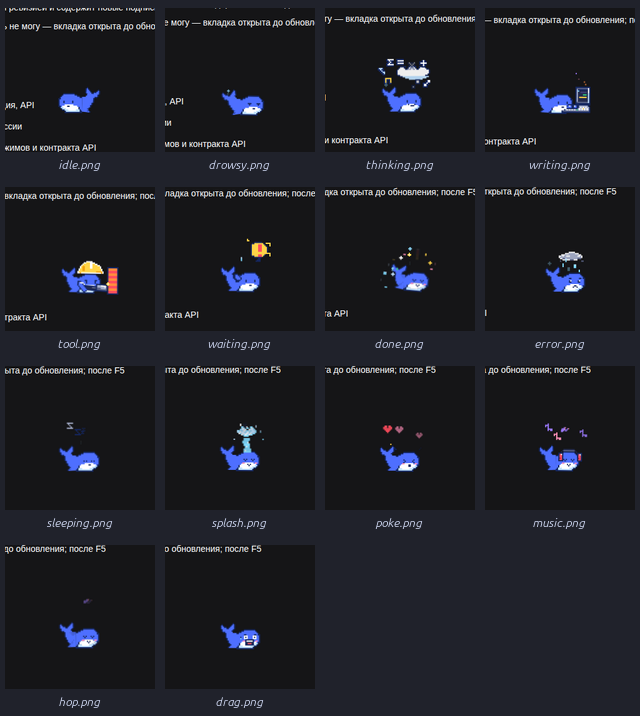
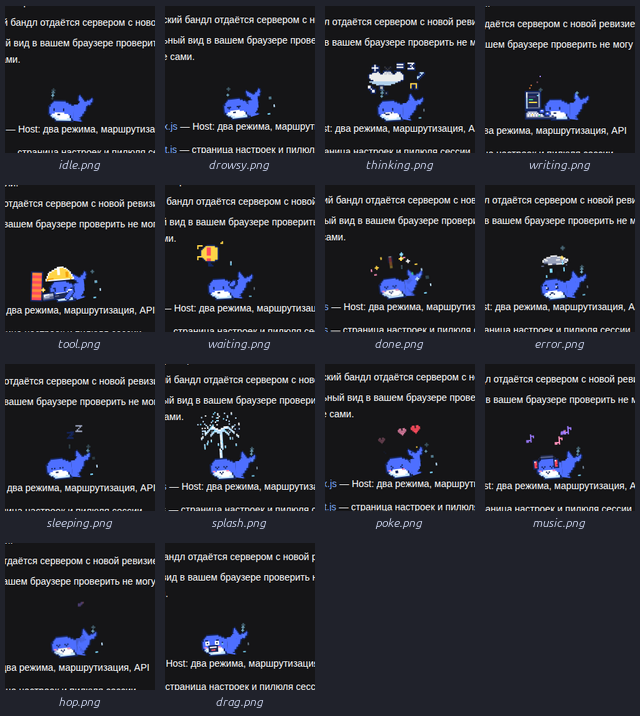
fountain: willow-style whale spout with short puff then tall burst

diff --git a/client.js b/client.js
@@ -309,21 +309,31 @@ const ART = {
 
 /* --- 12. splash (ref: idle-spout): two diverging water jets + crown ----- */
 .dsh-whale.is-splash #dw-bob { animation: dw-splash-tilt 2.6s ease-in-out infinite; }
-.dsh-whale.is-splash #dw-spout { animation: dw-spout-puff 1.2s ease-in-out infinite; }
-.dsh-whale.is-splash #dw-sdrop1 { animation: dw-sdrop 1.2s ease-out infinite; }
-.dsh-whale.is-splash #dw-sdrop2 { animation: dw-sdrop 1.2s ease-out 0.2s infinite; }
-.dsh-whale.is-splash #dw-sdrop3 { animation: dw-sdrop 1.2s ease-out 0.4s infinite; }
-.dsh-whale.is-splash #dw-sdrop4 { animation: dw-sdrop 1.2s ease-out 0.6s infinite; }
-.dsh-whale.is-splash #dw-sdrop5 { animation: dw-sdrop 1.2s ease-out 0.8s infinite; }
-.dsh-whale.is-splash #dw-sdrop6 { animation: dw-sdrop 1.2s ease-out 1s infinite; }
+/* fountain: a short puff, then a tall willow-like spout that bursts up */
+.dsh-whale.is-splash #dw-spout { animation: none; }
+.dsh-whale.is-splash #dw-spout-small { animation: dw-spout-small 3.2s steps(1, end) both; }
+.dsh-whale.is-splash #dw-spout-big { animation: dw-spout-big 3.2s ease-out both; transform-box: fill-box; transform-origin: 34px 56px; }
+.dsh-whale.is-splash #dw-sdrop1 { animation: dw-sdrop 3.2s ease-out both; }
+.dsh-whale.is-splash #dw-sdrop2 { animation: dw-sdrop 3.2s ease-out 0.15s both; }
+.dsh-whale.is-splash #dw-sdrop3 { animation: dw-sdrop 3.2s ease-out 0.3s both; }
+.dsh-whale.is-splash #dw-sdrop4 { animation: dw-sdrop 3.2s ease-out 0.45s both; }
+.dsh-whale.is-splash #dw-sdrop5 { animation: dw-sdrop 3.2s ease-out 0.6s both; }
+.dsh-whale.is-splash #dw-sdrop6 { animation: dw-sdrop 3.2s ease-out 0.75s both; }
+@keyframes dw-spout-small {
+  0%, 14% { opacity: 1; }
+  18%, 100% { opacity: 0; }
+}
+@keyframes dw-spout-big {
+  0%, 14% { opacity: 0; transform: scale(0.15, 0.12); }
+  24% { opacity: 1; transform: scale(0.72, 0.55); }
+  38%, 80% { opacity: 1; transform: scale(1, 1); }
+  92%, 100% { opacity: 0; transform: scale(1.06, 1.02); }
+}
 @keyframes dw-splash-tilt {
   0%, 100% { transform: translate(48px, 80px) rotate(-1.5deg) translate(-48px, -80px); }
   50% { transform: translate(48px, 80px) rotate(1.5deg) translate(-48px, -80px); }
 }
-@keyframes dw-spout-puff {
-  0%, 100% { transform: translate(36px, 56px) scaleY(0.86) scaleX(0.97) translate(-36px, -56px); opacity: 0.92; }
-  50% { transform: translate(36px, 56px) scaleY(1.05) scaleX(1.02) translate(-36px, -56px); opacity: 1; }
-}
+
 @keyframes dw-sdrop {
   0% { transform: translate(0, 4px); opacity: 0; }
   25% { opacity: 1; }
@@ -532,6 +542,7 @@ const ART = {
   .dsh-whale .dsh-whale-fx > span { opacity: 0 !important; }
   .dsh-whale .dsh-whale-art #dw-face-blink { opacity: 0 !important; }
   .dsh-whale .dsh-whale-art #dw-firework { opacity: 0 !important; }
+  .dsh-whale .dsh-whale-art #dw-spout-big { opacity: 0 !important; }
   .dsh-whale .dsh-whale-art #dw-face-up-blink, .dsh-whale .dsh-whale-art #dw-mouth-think-open { opacity: 0 !important; }
 }`,
   svg: ` <svg class="dsh-whale-svg" xmlns="http://www.w3.org/2000/svg" viewBox="0 0 96 96" width="96" height="96" shape-rendering="auto" aria-hidden="true" focusable="false">
@@ -559,7 +570,7 @@ const ART = {
     <g id="dw-wake" class="dw-only dw-on-fast"><g id="dw-wake1"><rect x="86" y="60" width="4" height="4" fill="#7FDBFF"/><rect x="86" y="60" width="2" height="2" fill="#BEE1FF"/></g><g id="dw-wake2"><rect x="90" y="72" width="2" height="4" fill="#BEE1FF"/></g><g id="dw-wake3"><rect x="80" y="84" width="4" height="2" fill="#7FDBFF"/></g></g>
     <g id="dw-hat" class="dw-only dw-on-tool"><path d="M30 36h10v20h-10zM26 38h4v18h-4zM40 38h4v18h-4zM22 40h4v16h-4zM44 40h2v16h-2zM18 42h4v14h-4zM46 42h2v14h-2zM16 44h2v12h-2zM48 44h2v12h-2zM14 48h2v8h-2zM50 48h2v8h-2zM12 52h2v4h-2zM52 52h2v4h-2z" fill="#FFFFFF"/><path d="M30 38h10v16h-10zM26 40h4v14h-4zM40 40h4v14h-4zM22 42h4v12h-4zM44 42h2v12h-2zM18 44h4v10h-4zM46 44h2v10h-2zM16 48h2v6h-2zM48 48h2v6h-2zM14 52h2v2h-2zM50 52h2v2h-2z" fill="#FFD447"/><rect x="30" y="38" width="4" height="10" fill="#FFFFFF"/><rect x="42" y="44" width="4" height="8" fill="#F2A20C"/><rect x="14" y="52" width="10" height="2" fill="#F2A20C"/><rect x="14" y="54" width="2" height="2" fill="#F2A20C"/><rect x="48" y="54" width="2" height="2" fill="#F2A20C"/></g>
     <g id="dw-phones" class="dw-only dw-on-music"><path d="M24 52h2v2h-2zM22 54h2v2h-2zM20 56h2v2h-2zM18 58h2v2h-2zM26 52h2v2h-2zM28 52h2v2h-2zM30 52h2v2h-2zM32 52h2v2h-2zM34 52h2v2h-2zM36 52h2v2h-2zM38 52h2v2h-2zM40 52h2v2h-2zM42 54h2v2h-2zM44 56h2v2h-2zM46 58h2v2h-2z" fill="#222A4E"/><path d="M26 54h2v2h-2zM24 54h2v2h-2zM28 54h2v2h-2zM30 54h2v2h-2zM32 54h2v2h-2zM34 54h2v2h-2zM36 54h2v2h-2zM38 54h2v2h-2zM40 54h2v2h-2z" fill="#5B6488"/><rect x="12" y="58" width="8" height="14" fill="#142660"/><rect x="14" y="60" width="4" height="10" fill="#FF4D5E"/><rect x="14" y="60" width="2" height="2" fill="#FFFFFF"/><rect x="16" y="66" width="2" height="2" fill="#B81E36"/><rect x="42" y="58" width="8" height="14" fill="#142660"/><rect x="44" y="60" width="4" height="10" fill="#FF4D5E"/><rect x="44" y="60" width="2" height="2" fill="#FFFFFF"/><rect x="46" y="66" width="2" height="2" fill="#B81E36"/></g>
-    <g id="dw-spout" class="dw-only dw-on-splash"><rect x="28" y="18" width="4" height="2" fill="#7FDBFF"/><rect x="42" y="18" width="4" height="2" fill="#7FDBFF"/><rect x="26" y="20" width="2" height="2" fill="#7FDBFF"/><rect x="30" y="20" width="2" height="2" fill="#7FDBFF"/><rect x="34" y="20" width="4" height="2" fill="#7FDBFF"/><rect x="40" y="20" width="2" height="2" fill="#7FDBFF"/><rect x="44" y="20" width="2" height="2" fill="#7FDBFF"/><rect x="24" y="22" width="2" height="2" fill="#7FDBFF"/><rect x="46" y="22" width="2" height="2" fill="#7FDBFF"/><rect x="22" y="24" width="2" height="2" fill="#7FDBFF"/><rect x="30" y="24" width="2" height="2" fill="#7FDBFF"/><rect x="34" y="24" width="4" height="2" fill="#7FDBFF"/><rect x="44" y="24" width="2" height="2" fill="#7FDBFF"/><rect x="48" y="24" width="4" height="2" fill="#7FDBFF"/><rect x="22" y="26" width="2" height="2" fill="#7FDBFF"/><rect x="32" y="26" width="2" height="2" fill="#7FDBFF"/><rect x="38" y="26" width="2" height="2" fill="#7FDBFF"/><rect x="50" y="26" width="2" height="2" fill="#7FDBFF"/><rect x="24" y="28" width="4" height="2" fill="#7FDBFF"/><rect x="46" y="28" width="2" height="2" fill="#7FDBFF"/><rect x="28" y="30" width="4" height="2" fill="#7FDBFF"/><rect x="34" y="30" width="2" height="2" fill="#7FDBFF"/><rect x="38" y="30" width="2" height="2" fill="#7FDBFF"/><rect x="42" y="30" width="2" height="2" fill="#7FDBFF"/><rect x="34" y="32" width="8" height="2" fill="#7FDBFF"/><rect x="32" y="36" width="10" height="2" fill="#7FDBFF"/><rect x="32" y="38" width="10" height="2" fill="#7FDBFF"/><rect x="34" y="40" width="10" height="2" fill="#7FDBFF"/><rect x="36" y="42" width="8" height="2" fill="#7FDBFF"/><rect x="32" y="44" width="10" height="2" fill="#7FDBFF"/><rect x="32" y="46" width="10" height="2" fill="#7FDBFF"/><rect x="32" y="48" width="4" height="2" fill="#7FDBFF"/><rect x="38" y="48" width="2" height="2" fill="#7FDBFF"/><rect x="32" y="50" width="8" height="2" fill="#7FDBFF"/><rect x="30" y="52" width="12" height="2" fill="#7FDBFF"/><rect x="30" y="54" width="8" height="2" fill="#7FDBFF"/><rect x="40" y="54" width="2" height="2" fill="#7FDBFF"/><rect x="30" y="56" width="12" height="2" fill="#7FDBFF"/><rect x="26" y="22" width="6" height="2" fill="#BEE1FF"/><rect x="40" y="22" width="6" height="2" fill="#BEE1FF"/><rect x="24" y="24" width="6" height="2" fill="#BEE1FF"/><rect x="32" y="24" width="2" height="2" fill="#BEE1FF"/><rect x="38" y="24" width="2" height="2" fill="#BEE1FF"/><rect x="42" y="24" width="2" height="2" fill="#BEE1FF"/><rect x="46" y="24" width="2" height="2" fill="#BEE1FF"/><rect x="24" y="26" width="8" height="2" fill="#BEE1FF"/><rect x="36" y="26" width="2" height="2" fill="#BEE1FF"/><rect x="40" y="26" width="6" height="2" fill="#BEE1FF"/><rect x="48" y="26" width="2" height="2" fill="#BEE1FF"/><rect x="28" y="28" width="2" height="2" fill="#BEE1FF"/><rect x="32" y="28" width="4" height="2" fill="#BEE1FF"/><rect x="38" y="28" width="4" height="2" fill="#BEE1FF"/><rect x="44" y="28" width="2" height="2" fill="#BEE1FF"/><rect x="36" y="30" width="2" height="2" fill="#BEE1FF"/><rect x="40" y="30" width="2" height="2" fill="#BEE1FF"/><rect x="36" y="18" width="2" height="2" fill="#FFFFFF"/><rect x="28" y="20" width="2" height="2" fill="#FFFFFF"/><rect x="42" y="20" width="2" height="2" fill="#FFFFFF"/><rect x="32" y="22" width="2" height="2" fill="#FFFFFF"/><rect x="38" y="22" width="2" height="2" fill="#FFFFFF"/><rect x="40" y="24" width="2" height="2" fill="#FFFFFF"/><rect x="34" y="26" width="2" height="2" fill="#FFFFFF"/><rect x="46" y="26" width="2" height="2" fill="#FFFFFF"/><rect x="30" y="28" width="2" height="2" fill="#FFFFFF"/><rect x="36" y="28" width="2" height="2" fill="#FFFFFF"/><rect x="42" y="28" width="2" height="2" fill="#FFFFFF"/><rect x="48" y="28" width="2" height="2" fill="#FFFFFF"/><rect x="32" y="30" width="2" height="2" fill="#FFFFFF"/><rect x="38" y="30" width="2" height="2" fill="#FFFFFF"/><rect x="44" y="30" width="2" height="2" fill="#FFFFFF"/><rect x="34" y="42" width="2" height="2" fill="#FFFFFF"/><rect x="36" y="48" width="2" height="2" fill="#FFFFFF"/><rect x="38" y="54" width="2" height="2" fill="#FFFFFF"/></g>
+    <g id="dw-spout" class="dw-only dw-on-splash"><g id="dw-spout-small"><rect x="30" y="46" width="2" height="10" fill="#FFFFFF"/><rect x="34" y="48" width="2" height="8" fill="#BEE1FF"/><rect x="32" y="44" width="2" height="6" fill="#FFFFFF"/><rect x="28" y="42" width="2" height="2" fill="#7FDBFF"/><rect x="38" y="42" width="2" height="2" fill="#7FDBFF"/><rect x="32" y="40" width="2" height="2" fill="#BEE1FF"/></g><g id="dw-spout-big"><rect x="28" y="-12" width="2" height="2" fill="#7FDBFF"/><rect x="26" y="-10" width="2" height="2" fill="#7FDBFF"/><rect x="32" y="-10" width="2" height="2" fill="#FFFFFF"/><rect x="42" y="-10" width="2" height="2" fill="#BEE1FF"/><rect x="52" y="-10" width="2" height="2" fill="#FFFFFF"/><rect x="14" y="-8" width="2" height="2" fill="#FFFFFF"/><rect x="32" y="-8" width="2" height="2" fill="#BEE1FF"/><rect x="52" y="-8" width="2" height="2" fill="#BEE1FF"/><rect x="8" y="-6" width="2" height="2" fill="#BEE1FF"/><rect x="24" y="-6" width="2" height="2" fill="#BEE1FF"/><rect x="34" y="-6" width="2" height="2" fill="#FFFFFF"/><rect x="46" y="-6" width="2" height="2" fill="#BEE1FF"/><rect x="30" y="-4" width="2" height="2" fill="#7FDBFF"/><rect x="32" y="-4" width="2" height="2" fill="#FFFFFF"/><rect x="46" y="-4" width="2" height="2" fill="#BEE1FF"/><rect x="40" y="-2" width="2" height="2" fill="#7FDBFF"/><rect x="58" y="-2" width="2" height="2" fill="#BEE1FF"/><rect x="10" y="0" width="2" height="2" fill="#BEE1FF"/><rect x="24" y="0" width="2" height="2" fill="#7FDBFF"/><rect x="30" y="0" width="2" height="2" fill="#7FDBFF"/><rect x="32" y="0" width="2" height="2" fill="#BEE1FF"/><rect x="44" y="0" width="2" height="2" fill="#BEE1FF"/><rect x="22" y="2" width="2" height="2" fill="#BEE1FF"/><rect x="28" y="2" width="2" height="2" fill="#FFFFFF"/><rect x="48" y="2" width="2" height="2" fill="#BEE1FF"/><rect x="2" y="4" width="2" height="2" fill="#BEE1FF"/><rect x="6" y="4" width="2" height="2" fill="#7FDBFF"/><rect x="12" y="4" width="2" height="2" fill="#BEE1FF"/><rect x="14" y="6" width="2" height="2" fill="#BEE1FF"/><rect x="20" y="6" width="2" height="2" fill="#FFFFFF"/><rect x="24" y="6" width="2" height="2" fill="#7FDBFF"/><rect x="30" y="6" width="2" height="2" fill="#FFFFFF"/><rect x="48" y="6" width="2" height="2" fill="#BEE1FF"/><rect x="62" y="6" width="2" height="2" fill="#FFFFFF"/><rect x="16" y="8" width="2" height="2" fill="#BEE1FF"/><rect x="22" y="8" width="2" height="2" fill="#7FDBFF"/><rect x="24" y="8" width="2" height="2" fill="#FFFFFF"/><rect x="56" y="8" width="2" height="2" fill="#BEE1FF"/><rect x="62" y="8" width="2" height="2" fill="#FFFFFF"/><rect x="8" y="10" width="2" height="2" fill="#FFFFFF"/><rect x="12" y="10" width="2" height="2" fill="#FFFFFF"/><rect x="16" y="10" width="2" height="2" fill="#FFFFFF"/><rect x="20" y="10" width="2" height="2" fill="#7FDBFF"/><rect x="22" y="10" width="2" height="2" fill="#FFFFFF"/><rect x="24" y="10" width="2" height="2" fill="#FFFFFF"/><rect x="26" y="10" width="2" height="2" fill="#FFFFFF"/><rect x="40" y="10" width="2" height="2" fill="#FFFFFF"/><rect x="42" y="10" width="2" height="2" fill="#FFFFFF"/><rect x="44" y="10" width="2" height="2" fill="#FFFFFF"/><rect x="46" y="10" width="2" height="2" fill="#BEE1FF"/><rect x="52" y="10" width="2" height="2" fill="#BEE1FF"/><rect x="54" y="10" width="2" height="2" fill="#BEE1FF"/><rect x="18" y="12" width="2" height="2" fill="#BEE1FF"/><rect x="20" y="12" width="2" height="2" fill="#BEE1FF"/><rect x="22" y="12" width="2" height="2" fill="#BEE1FF"/><rect x="24" y="12" width="2" height="2" fill="#BEE1FF"/><rect x="26" y="12" width="2" height="2" fill="#BEE1FF"/><rect x="28" y="12" width="2" height="2" fill="#FFFFFF"/><rect x="30" y="12" width="2" height="2" fill="#FFFFFF"/><rect x="36" y="12" width="2" height="2" fill="#FFFFFF"/><rect x="38" y="12" width="2" height="2" fill="#FFFFFF"/><rect x="40" y="12" width="2" height="2" fill="#BEE1FF"/><rect x="42" y="12" width="2" height="2" fill="#BEE1FF"/><rect x="44" y="12" width="2" height="2" fill="#BEE1FF"/><rect x="46" y="12" width="2" height="2" fill="#BEE1FF"/><rect x="48" y="12" width="2" height="2" fill="#BEE1FF"/><rect x="52" y="12" width="2" height="2" fill="#FFFFFF"/><rect x="8" y="14" width="2" height="2" fill="#BEE1FF"/><rect x="10" y="14" width="2" height="2" fill="#BEE1FF"/><rect x="12" y="14" width="2" height="2" fill="#BEE1FF"/><rect x="16" y="14" width="2" height="2" fill="#BEE1FF"/><rect x="18" y="14" width="2" height="2" fill="#BEE1FF"/><rect x="26" y="14" width="2" height="2" fill="#7FDBFF"/><rect x="28" y="14" width="2" height="2" fill="#BEE1FF"/><rect x="30" y="14" width="2" height="2" fill="#BEE1FF"/><rect x="32" y="14" width="2" height="2" fill="#FFFFFF"/><rect x="34" y="14" width="2" height="2" fill="#FFFFFF"/><rect x="36" y="14" width="2" height="2" fill="#BEE1FF"/><rect x="38" y="14" width="2" height="2" fill="#BEE1FF"/><rect x="40" y="14" width="2" height="2" fill="#7FDBFF"/><rect x="48" y="14" width="2" height="2" fill="#BEE1FF"/><rect x="50" y="14" width="2" height="2" fill="#BEE1FF"/><rect x="56" y="14" width="2" height="2" fill="#BEE1FF"/><rect x="62" y="14" width="2" height="2" fill="#BEE1FF"/><rect x="12" y="16" width="2" height="2" fill="#BEE1FF"/><rect x="14" y="16" width="2" height="2" fill="#BEE1FF"/><rect x="16" y="16" width="2" height="2" fill="#BEE1FF"/><rect x="24" y="16" width="2" height="2" fill="#7FDBFF"/><rect x="26" y="16" width="2" height="2" fill="#BEE1FF"/><rect x="28" y="16" width="2" height="2" fill="#BEE1FF"/><rect x="30" y="16" width="2" height="2" fill="#BEE1FF"/><rect x="32" y="16" width="2" height="2" fill="#BEE1FF"/><rect x="34" y="16" width="2" height="2" fill="#BEE1FF"/><rect x="36" y="16" width="2" height="2" fill="#BEE1FF"/><rect x="38" y="16" width="2" height="2" fill="#BEE1FF"/><rect x="40" y="16" width="2" height="2" fill="#BEE1FF"/><rect x="42" y="16" width="2" height="2" fill="#7FDBFF"/><rect x="50" y="16" width="2" height="2" fill="#BEE1FF"/><rect x="52" y="16" width="2" height="2" fill="#BEE1FF"/><rect x="8" y="18" width="2" height="2" fill="#BEE1FF"/><rect x="12" y="18" width="2" height="2" fill="#FFFFFF"/><rect x="14" y="18" width="2" height="2" fill="#BEE1FF"/><rect x="22" y="18" width="2" height="2" fill="#BEE1FF"/><rect x="24" y="18" width="2" height="2" fill="#BEE1FF"/><rect x="30" y="18" width="2" height="2" fill="#BEE1FF"/><rect x="32" y="18" width="2" height="2" fill="#BEE1FF"/><rect x="34" y="18" width="2" height="2" fill="#BEE1FF"/><rect x="36" y="18" width="2" height="2" fill="#BEE1FF"/><rect x="42" y="18" width="2" height="2" fill="#BEE1FF"/><rect x="44" y="18" width="2" height="2" fill="#BEE1FF"/><rect x="48" y="18" width="2" height="2" fill="#BEE1FF"/><rect x="52" y="18" width="2" height="2" fill="#BEE1FF"/><rect x="54" y="18" width="2" height="2" fill="#FFFFFF"/><rect x="12" y="20" width="2" height="2" fill="#BEE1FF"/><rect x="20" y="20" width="2" height="2" fill="#BEE1FF"/><rect x="22" y="20" width="2" height="2" fill="#BEE1FF"/><rect x="34" y="20" width="2" height="2" fill="#BEE1FF"/><rect x="36" y="20" width="2" height="2" fill="#BEE1FF"/><rect x="44" y="20" width="2" height="2" fill="#BEE1FF"/><rect x="46" y="20" width="2" height="2" fill="#BEE1FF"/><rect x="54" y="20" width="2" height="2" fill="#BEE1FF"/><rect x="8" y="22" width="2" height="2" fill="#FFFFFF"/><rect x="20" y="22" width="2" height="2" fill="#BEE1FF"/><rect x="34" y="22" width="2" height="2" fill="#FFFFFF"/><rect x="36" y="22" width="2" height="2" fill="#BEE1FF"/><rect x="46" y="22" width="2" height="2" fill="#BEE1FF"/><rect x="58" y="22" width="2" height="2" fill="#FFFFFF"/><rect x="6" y="24" width="2" height="2" fill="#FFFFFF"/><rect x="8" y="24" width="2" height="2" fill="#BEE1FF"/><rect x="34" y="24" width="2" height="2" fill="#FFFFFF"/><rect x="36" y="24" width="2" height="2" fill="#BEE1FF"/><rect x="58" y="24" width="2" height="2" fill="#BEE1FF"/><rect x="60" y="24" width="2" height="2" fill="#FFFFFF"/><rect x="6" y="26" width="2" height="2" fill="#BEE1FF"/><rect x="34" y="26" width="2" height="2" fill="#FFFFFF"/><rect x="36" y="26" width="2" height="2" fill="#BEE1FF"/><rect x="48" y="26" width="2" height="2" fill="#BEE1FF"/><rect x="60" y="26" width="2" height="2" fill="#BEE1FF"/><rect x="20" y="28" width="2" height="2" fill="#BEE1FF"/><rect x="34" y="28" width="2" height="2" fill="#FFFFFF"/><rect x="36" y="28" width="2" height="2" fill="#BEE1FF"/><rect x="48" y="28" width="2" height="2" fill="#7FDBFF"/><rect x="20" y="30" width="2" height="2" fill="#7FDBFF"/><rect x="34" y="30" width="2" height="2" fill="#BEE1FF"/><rect x="36" y="30" width="2" height="2" fill="#BEE1FF"/><rect x="14" y="32" width="2" height="2" fill="#BEE1FF"/><rect x="34" y="32" width="2" height="2" fill="#FFFFFF"/><rect x="36" y="32" width="2" height="2" fill="#7FDBFF"/><rect x="10" y="34" width="2" height="2" fill="#BEE1FF"/><rect x="14" y="34" width="2" height="2" fill="#7FDBFF"/><rect x="30" y="34" width="2" height="2" fill="#BEE1FF"/><rect x="34" y="34" width="2" height="2" fill="#FFFFFF"/><rect x="36" y="34" width="2" height="2" fill="#BEE1FF"/><rect x="10" y="36" width="2" height="2" fill="#7FDBFF"/><rect x="30" y="36" width="2" height="2" fill="#7FDBFF"/><rect x="34" y="36" width="2" height="2" fill="#BEE1FF"/><rect x="36" y="36" width="2" height="2" fill="#BEE1FF"/><rect x="56" y="36" width="2" height="2" fill="#BEE1FF"/><rect x="10" y="38" width="2" height="2" fill="#BEE1FF"/><rect x="34" y="38" width="2" height="2" fill="#FFFFFF"/><rect x="36" y="38" width="2" height="2" fill="#BEE1FF"/><rect x="40" y="38" width="2" height="2" fill="#BEE1FF"/><rect x="56" y="38" width="2" height="2" fill="#7FDBFF"/><rect x="10" y="40" width="2" height="2" fill="#7FDBFF"/><rect x="34" y="40" width="2" height="2" fill="#BEE1FF"/><rect x="36" y="40" width="2" height="2" fill="#BEE1FF"/><rect x="40" y="40" width="2" height="2" fill="#7FDBFF"/><rect x="32" y="42" width="2" height="2" fill="#FFFFFF"/><rect x="36" y="42" width="2" height="2" fill="#BEE1FF"/><rect x="32" y="44" width="2" height="2" fill="#FFFFFF"/><rect x="34" y="44" width="2" height="2" fill="#BEE1FF"/><rect x="32" y="46" width="2" height="2" fill="#BEE1FF"/><rect x="34" y="46" width="2" height="2" fill="#BEE1FF"/><rect x="32" y="48" width="2" height="2" fill="#FFFFFF"/><rect x="34" y="48" width="2" height="2" fill="#BEE1FF"/><rect x="32" y="50" width="2" height="2" fill="#FFFFFF"/><rect x="34" y="50" width="2" height="2" fill="#BEE1FF"/><rect x="32" y="52" width="2" height="2" fill="#FFFFFF"/><rect x="34" y="52" width="2" height="2" fill="#BEE1FF"/><rect x="32" y="54" width="2" height="2" fill="#FFFFFF"/><rect x="34" y="54" width="2" height="2" fill="#BEE1FF"/></g></g>
     <g id="dw-sdrop1" class="dw-only dw-on-splash"><rect x="16" y="30" width="2" height="4" fill="#7FDBFF"/><rect x="16" y="30" width="2" height="2" fill="#BEE1FF"/></g><g id="dw-sdrop2" class="dw-only dw-on-splash"><rect x="52" y="26" width="2" height="4" fill="#BEE1FF"/></g><g id="dw-sdrop3" class="dw-only dw-on-splash"><rect x="22" y="14" width="2" height="4" fill="#BEE1FF"/></g><g id="dw-sdrop4" class="dw-only dw-on-splash"><rect x="46" y="12" width="2" height="4" fill="#FFFFFF"/></g><g id="dw-sdrop5" class="dw-only dw-on-splash"><rect x="10" y="36" width="2" height="2" fill="#7FDBFF"/></g><g id="dw-sdrop6" class="dw-only dw-on-splash"><rect x="56" y="36" width="2" height="2" fill="#BEE1FF"/></g>
     <g id="dw-note-a" class="dw-only dw-on-music"><g id="dw-note1"><rect x="10" y="22" width="2" height="12" fill="#9D7BFF"/><rect x="4" y="30" width="6" height="2" fill="#9D7BFF"/><rect x="4" y="32" width="4" height="2" fill="#9D7BFF"/><rect x="12" y="24" width="4" height="2" fill="#9D7BFF"/><rect x="14" y="26" width="2" height="2" fill="#9D7BFF"/></g><g id="dw-note2"><rect x="52" y="26" width="2" height="12" fill="#FF8FB8"/><rect x="46" y="34" width="6" height="2" fill="#FF8FB8"/><rect x="46" y="36" width="4" height="2" fill="#FF8FB8"/><rect x="54" y="28" width="4" height="2" fill="#FF8FB8"/><rect x="56" y="30" width="2" height="2" fill="#FF8FB8"/></g><g id="dw-note3"><rect x="66" y="12" width="2" height="12" fill="#9D7BFF"/><rect x="60" y="20" width="6" height="2" fill="#9D7BFF"/><rect x="60" y="22" width="4" height="2" fill="#9D7BFF"/><rect x="68" y="14" width="4" height="2" fill="#9D7BFF"/><rect x="70" y="16" width="2" height="2" fill="#9D7BFF"/></g></g>
     <g id="dw-heart1" class="dw-only dw-on-poke"><rect x="46" y="24" width="4" height="2" fill="#FF8FB8"/><rect x="52" y="24" width="4" height="2" fill="#FF8FB8"/><rect x="44" y="26" width="6" height="2" fill="#FF8FB8"/><rect x="52" y="26" width="6" height="2" fill="#FF8FB8"/><rect x="44" y="28" width="14" height="2" fill="#FF8FB8"/><rect x="46" y="30" width="10" height="2" fill="#FF8FB8"/><rect x="48" y="32" width="6" height="2" fill="#FF8FB8"/><rect x="50" y="34" width="2" height="2" fill="#FF8FB8"/></g><g id="dw-heart2" class="dw-only dw-on-poke"><rect x="16" y="34" width="4" height="2" fill="#FF8FB8"/><rect x="22" y="34" width="4" height="2" fill="#FF8FB8"/><rect x="14" y="36" width="6" height="2" fill="#FF8FB8"/><rect x="22" y="36" width="6" height="2" fill="#FF8FB8"/><rect x="14" y="38" width="14" height="2" fill="#FF8FB8"/><rect x="16" y="40" width="10" height="2" fill="#FF8FB8"/><rect x="18" y="42" width="6" height="2" fill="#FF8FB8"/><rect x="20" y="44" width="2" height="2" fill="#FF8FB8"/></g><g id="dw-heart3" class="dw-only dw-on-poke"><rect x="62" y="14" width="4" height="2" fill="#FF4D5E"/><rect x="68" y="14" width="4" height="2" fill="#FF4D5E"/><rect x="60" y="16" width="6" height="2" fill="#FF4D5E"/><rect x="68" y="16" width="6" height="2" fill="#FF4D5E"/><rect x="60" y="18" width="14" height="2" fill="#FF4D5E"/><rect x="62" y="20" width="10" height="2" fill="#FF4D5E"/><rect x="64" y="22" width="6" height="2" fill="#FF4D5E"/><rect x="66" y="24" width="2" height="2" fill="#FF4D5E"/></g>

diff --git a/src/art.js b/src/art.js
@@ -299,21 +299,31 @@ const ART = {
 
 /* --- 12. splash (ref: idle-spout): two diverging water jets + crown ----- */
 .dsh-whale.is-splash #dw-bob { animation: dw-splash-tilt 2.6s ease-in-out infinite; }
-.dsh-whale.is-splash #dw-spout { animation: dw-spout-puff 1.2s ease-in-out infinite; }
-.dsh-whale.is-splash #dw-sdrop1 { animation: dw-sdrop 1.2s ease-out infinite; }
-.dsh-whale.is-splash #dw-sdrop2 { animation: dw-sdrop 1.2s ease-out 0.2s infinite; }
-.dsh-whale.is-splash #dw-sdrop3 { animation: dw-sdrop 1.2s ease-out 0.4s infinite; }
-.dsh-whale.is-splash #dw-sdrop4 { animation: dw-sdrop 1.2s ease-out 0.6s infinite; }
-.dsh-whale.is-splash #dw-sdrop5 { animation: dw-sdrop 1.2s ease-out 0.8s infinite; }
-.dsh-whale.is-splash #dw-sdrop6 { animation: dw-sdrop 1.2s ease-out 1s infinite; }
+/* fountain: a short puff, then a tall willow-like spout that bursts up */
+.dsh-whale.is-splash #dw-spout { animation: none; }
+.dsh-whale.is-splash #dw-spout-small { animation: dw-spout-small 3.2s steps(1, end) both; }
+.dsh-whale.is-splash #dw-spout-big { animation: dw-spout-big 3.2s ease-out both; transform-box: fill-box; transform-origin: 34px 56px; }
+.dsh-whale.is-splash #dw-sdrop1 { animation: dw-sdrop 3.2s ease-out both; }
+.dsh-whale.is-splash #dw-sdrop2 { animation: dw-sdrop 3.2s ease-out 0.15s both; }
+.dsh-whale.is-splash #dw-sdrop3 { animation: dw-sdrop 3.2s ease-out 0.3s both; }
+.dsh-whale.is-splash #dw-sdrop4 { animation: dw-sdrop 3.2s ease-out 0.45s both; }
+.dsh-whale.is-splash #dw-sdrop5 { animation: dw-sdrop 3.2s ease-out 0.6s both; }
+.dsh-whale.is-splash #dw-sdrop6 { animation: dw-sdrop 3.2s ease-out 0.75s both; }
+@keyframes dw-spout-small {
+  0%, 14% { opacity: 1; }
+  18%, 100% { opacity: 0; }
+}
+@keyframes dw-spout-big {
+  0%, 14% { opacity: 0; transform: scale(0.15, 0.12); }
+  24% { opacity: 1; transform: scale(0.72, 0.55); }
+  38%, 80% { opacity: 1; transform: scale(1, 1); }
+  92%, 100% { opacity: 0; transform: scale(1.06, 1.02); }
+}
 @keyframes dw-splash-tilt {
   0%, 100% { transform: translate(48px, 80px) rotate(-1.5deg) translate(-48px, -80px); }
   50% { transform: translate(48px, 80px) rotate(1.5deg) translate(-48px, -80px); }
 }
-@keyframes dw-spout-puff {
-  0%, 100% { transform: translate(36px, 56px) scaleY(0.86) scaleX(0.97) translate(-36px, -56px); opacity: 0.92; }
-  50% { transform: translate(36px, 56px) scaleY(1.05) scaleX(1.02) translate(-36px, -56px); opacity: 1; }
-}
+
 @keyframes dw-sdrop {
   0% { transform: translate(0, 4px); opacity: 0; }
   25% { opacity: 1; }
@@ -522,6 +532,7 @@ const ART = {
   .dsh-whale .dsh-whale-fx > span { opacity: 0 !important; }
   .dsh-whale .dsh-whale-art #dw-face-blink { opacity: 0 !important; }
   .dsh-whale .dsh-whale-art #dw-firework { opacity: 0 !important; }
+  .dsh-whale .dsh-whale-art #dw-spout-big { opacity: 0 !important; }
   .dsh-whale .dsh-whale-art #dw-face-up-blink, .dsh-whale .dsh-whale-art #dw-mouth-think-open { opacity: 0 !important; }
 }`,
   svg: ` <svg class="dsh-whale-svg" xmlns="http://www.w3.org/2000/svg" viewBox="0 0 96 96" width="96" height="96" shape-rendering="auto" aria-hidden="true" focusable="false">
@@ -549,7 +560,7 @@ const ART = {
     <g id="dw-wake" class="dw-only dw-on-fast"><g id="dw-wake1"><rect x="86" y="60" width="4" height="4" fill="#7FDBFF"/><rect x="86" y="60" width="2" height="2" fill="#BEE1FF"/></g><g id="dw-wake2"><rect x="90" y="72" width="2" height="4" fill="#BEE1FF"/></g><g id="dw-wake3"><rect x="80" y="84" width="4" height="2" fill="#7FDBFF"/></g></g>
     <g id="dw-hat" class="dw-only dw-on-tool"><path d="M30 36h10v20h-10zM26 38h4v18h-4zM40 38h4v18h-4zM22 40h4v16h-4zM44 40h2v16h-2zM18 42h4v14h-4zM46 42h2v14h-2zM16 44h2v12h-2zM48 44h2v12h-2zM14 48h2v8h-2zM50 48h2v8h-2zM12 52h2v4h-2zM52 52h2v4h-2z" fill="#FFFFFF"/><path d="M30 38h10v16h-10zM26 40h4v14h-4zM40 40h4v14h-4zM22 42h4v12h-4zM44 42h2v12h-2zM18 44h4v10h-4zM46 44h2v10h-2zM16 48h2v6h-2zM48 48h2v6h-2zM14 52h2v2h-2zM50 52h2v2h-2z" fill="#FFD447"/><rect x="30" y="38" width="4" height="10" fill="#FFFFFF"/><rect x="42" y="44" width="4" height="8" fill="#F2A20C"/><rect x="14" y="52" width="10" height="2" fill="#F2A20C"/><rect x="14" y="54" width="2" height="2" fill="#F2A20C"/><rect x="48" y="54" width="2" height="2" fill="#F2A20C"/></g>
     <g id="dw-phones" class="dw-only dw-on-music"><path d="M24 52h2v2h-2zM22 54h2v2h-2zM20 56h2v2h-2zM18 58h2v2h-2zM26 52h2v2h-2zM28 52h2v2h-2zM30 52h2v2h-2zM32 52h2v2h-2zM34 52h2v2h-2zM36 52h2v2h-2zM38 52h2v2h-2zM40 52h2v2h-2zM42 54h2v2h-2zM44 56h2v2h-2zM46 58h2v2h-2z" fill="#222A4E"/><path d="M26 54h2v2h-2zM24 54h2v2h-2zM28 54h2v2h-2zM30 54h2v2h-2zM32 54h2v2h-2zM34 54h2v2h-2zM36 54h2v2h-2zM38 54h2v2h-2zM40 54h2v2h-2z" fill="#5B6488"/><rect x="12" y="58" width="8" height="14" fill="#142660"/><rect x="14" y="60" width="4" height="10" fill="#FF4D5E"/><rect x="14" y="60" width="2" height="2" fill="#FFFFFF"/><rect x="16" y="66" width="2" height="2" fill="#B81E36"/><rect x="42" y="58" width="8" height="14" fill="#142660"/><rect x="44" y="60" width="4" height="10" fill="#FF4D5E"/><rect x="44" y="60" width="2" height="2" fill="#FFFFFF"/><rect x="46" y="66" width="2" height="2" fill="#B81E36"/></g>
-    <g id="dw-spout" class="dw-only dw-on-splash"><rect x="28" y="18" width="4" height="2" fill="#7FDBFF"/><rect x="42" y="18" width="4" height="2" fill="#7FDBFF"/><rect x="26" y="20" width="2" height="2" fill="#7FDBFF"/><rect x="30" y="20" width="2" height="2" fill="#7FDBFF"/><rect x="34" y="20" width="4" height="2" fill="#7FDBFF"/><rect x="40" y="20" width="2" height="2" fill="#7FDBFF"/><rect x="44" y="20" width="2" height="2" fill="#7FDBFF"/><rect x="24" y="22" width="2" height="2" fill="#7FDBFF"/><rect x="46" y="22" width="2" height="2" fill="#7FDBFF"/><rect x="22" y="24" width="2" height="2" fill="#7FDBFF"/><rect x="30" y="24" width="2" height="2" fill="#7FDBFF"/><rect x="34" y="24" width="4" height="2" fill="#7FDBFF"/><rect x="44" y="24" width="2" height="2" fill="#7FDBFF"/><rect x="48" y="24" width="4" height="2" fill="#7FDBFF"/><rect x="22" y="26" width="2" height="2" fill="#7FDBFF"/><rect x="32" y="26" width="2" height="2" fill="#7FDBFF"/><rect x="38" y="26" width="2" height="2" fill="#7FDBFF"/><rect x="50" y="26" width="2" height="2" fill="#7FDBFF"/><rect x="24" y="28" width="4" height="2" fill="#7FDBFF"/><rect x="46" y="28" width="2" height="2" fill="#7FDBFF"/><rect x="28" y="30" width="4" height="2" fill="#7FDBFF"/><rect x="34" y="30" width="2" height="2" fill="#7FDBFF"/><rect x="38" y="30" width="2" height="2" fill="#7FDBFF"/><rect x="42" y="30" width="2" height="2" fill="#7FDBFF"/><rect x="34" y="32" width="8" height="2" fill="#7FDBFF"/><rect x="32" y="36" width="10" height="2" fill="#7FDBFF"/><rect x="32" y="38" width="10" height="2" fill="#7FDBFF"/><rect x="34" y="40" width="10" height="2" fill="#7FDBFF"/><rect x="36" y="42" width="8" height="2" fill="#7FDBFF"/><rect x="32" y="44" width="10" height="2" fill="#7FDBFF"/><rect x="32" y="46" width="10" height="2" fill="#7FDBFF"/><rect x="32" y="48" width="4" height="2" fill="#7FDBFF"/><rect x="38" y="48" width="2" height="2" fill="#7FDBFF"/><rect x="32" y="50" width="8" height="2" fill="#7FDBFF"/><rect x="30" y="52" width="12" height="2" fill="#7FDBFF"/><rect x="30" y="54" width="8" height="2" fill="#7FDBFF"/><rect x="40" y="54" width="2" height="2" fill="#7FDBFF"/><rect x="30" y="56" width="12" height="2" fill="#7FDBFF"/><rect x="26" y="22" width="6" height="2" fill="#BEE1FF"/><rect x="40" y="22" width="6" height="2" fill="#BEE1FF"/><rect x="24" y="24" width="6" height="2" fill="#BEE1FF"/><rect x="32" y="24" width="2" height="2" fill="#BEE1FF"/><rect x="38" y="24" width="2" height="2" fill="#BEE1FF"/><rect x="42" y="24" width="2" height="2" fill="#BEE1FF"/><rect x="46" y="24" width="2" height="2" fill="#BEE1FF"/><rect x="24" y="26" width="8" height="2" fill="#BEE1FF"/><rect x="36" y="26" width="2" height="2" fill="#BEE1FF"/><rect x="40" y="26" width="6" height="2" fill="#BEE1FF"/><rect x="48" y="26" width="2" height="2" fill="#BEE1FF"/><rect x="28" y="28" width="2" height="2" fill="#BEE1FF"/><rect x="32" y="28" width="4" height="2" fill="#BEE1FF"/><rect x="38" y="28" width="4" height="2" fill="#BEE1FF"/><rect x="44" y="28" width="2" height="2" fill="#BEE1FF"/><rect x="36" y="30" width="2" height="2" fill="#BEE1FF"/><rect x="40" y="30" width="2" height="2" fill="#BEE1FF"/><rect x="36" y="18" width="2" height="2" fill="#FFFFFF"/><rect x="28" y="20" width="2" height="2" fill="#FFFFFF"/><rect x="42" y="20" width="2" height="2" fill="#FFFFFF"/><rect x="32" y="22" width="2" height="2" fill="#FFFFFF"/><rect x="38" y="22" width="2" height="2" fill="#FFFFFF"/><rect x="40" y="24" width="2" height="2" fill="#FFFFFF"/><rect x="34" y="26" width="2" height="2" fill="#FFFFFF"/><rect x="46" y="26" width="2" height="2" fill="#FFFFFF"/><rect x="30" y="28" width="2" height="2" fill="#FFFFFF"/><rect x="36" y="28" width="2" height="2" fill="#FFFFFF"/><rect x="42" y="28" width="2" height="2" fill="#FFFFFF"/><rect x="48" y="28" width="2" height="2" fill="#FFFFFF"/><rect x="32" y="30" width="2" height="2" fill="#FFFFFF"/><rect x="38" y="30" width="2" height="2" fill="#FFFFFF"/><rect x="44" y="30" width="2" height="2" fill="#FFFFFF"/><rect x="34" y="42" width="2" height="2" fill="#FFFFFF"/><rect x="36" y="48" width="2" height="2" fill="#FFFFFF"/><rect x="38" y="54" width="2" height="2" fill="#FFFFFF"/></g>
+    <g id="dw-spout" class="dw-only dw-on-splash"><g id="dw-spout-small"><rect x="30" y="46" width="2" height="10" fill="#FFFFFF"/><rect x="34" y="48" width="2" height="8" fill="#BEE1FF"/><rect x="32" y="44" width="2" height="6" fill="#FFFFFF"/><rect x="28" y="42" width="2" height="2" fill="#7FDBFF"/><rect x="38" y="42" width="2" height="2" fill="#7FDBFF"/><rect x="32" y="40" width="2" height="2" fill="#BEE1FF"/></g><g id="dw-spout-big"><rect x="28" y="-12" width="2" height="2" fill="#7FDBFF"/><rect x="26" y="-10" width="2" height="2" fill="#7FDBFF"/><rect x="32" y="-10" width="2" height="2" fill="#FFFFFF"/><rect x="42" y="-10" width="2" height="2" fill="#BEE1FF"/><rect x="52" y="-10" width="2" height="2" fill="#FFFFFF"/><rect x="14" y="-8" width="2" height="2" fill="#FFFFFF"/><rect x="32" y="-8" width="2" height="2" fill="#BEE1FF"/><rect x="52" y="-8" width="2" height="2" fill="#BEE1FF"/><rect x="8" y="-6" width="2" height="2" fill="#BEE1FF"/><rect x="24" y="-6" width="2" height="2" fill="#BEE1FF"/><rect x="34" y="-6" width="2" height="2" fill="#FFFFFF"/><rect x="46" y="-6" width="2" height="2" fill="#BEE1FF"/><rect x="30" y="-4" width="2" height="2" fill="#7FDBFF"/><rect x="32" y="-4" width="2" height="2" fill="#FFFFFF"/><rect x="46" y="-4" width="2" height="2" fill="#BEE1FF"/><rect x="40" y="-2" width="2" height="2" fill="#7FDBFF"/><rect x="58" y="-2" width="2" height="2" fill="#BEE1FF"/><rect x="10" y="0" width="2" height="2" fill="#BEE1FF"/><rect x="24" y="0" width="2" height="2" fill="#7FDBFF"/><rect x="30" y="0" width="2" height="2" fill="#7FDBFF"/><rect x="32" y="0" width="2" height="2" fill="#BEE1FF"/><rect x="44" y="0" width="2" height="2" fill="#BEE1FF"/><rect x="22" y="2" width="2" height="2" fill="#BEE1FF"/><rect x="28" y="2" width="2" height="2" fill="#FFFFFF"/><rect x="48" y="2" width="2" height="2" fill="#BEE1FF"/><rect x="2" y="4" width="2" height="2" fill="#BEE1FF"/><rect x="6" y="4" width="2" height="2" fill="#7FDBFF"/><rect x="12" y="4" width="2" height="2" fill="#BEE1FF"/><rect x="14" y="6" width="2" height="2" fill="#BEE1FF"/><rect x="20" y="6" width="2" height="2" fill="#FFFFFF"/><rect x="24" y="6" width="2" height="2" fill="#7FDBFF"/><rect x="30" y="6" width="2" height="2" fill="#FFFFFF"/><rect x="48" y="6" width="2" height="2" fill="#BEE1FF"/><rect x="62" y="6" width="2" height="2" fill="#FFFFFF"/><rect x="16" y="8" width="2" height="2" fill="#BEE1FF"/><rect x="22" y="8" width="2" height="2" fill="#7FDBFF"/><rect x="24" y="8" width="2" height="2" fill="#FFFFFF"/><rect x="56" y="8" width="2" height="2" fill="#BEE1FF"/><rect x="62" y="8" width="2" height="2" fill="#FFFFFF"/><rect x="8" y="10" width="2" height="2" fill="#FFFFFF"/><rect x="12" y="10" width="2" height="2" fill="#FFFFFF"/><rect x="16" y="10" width="2" height="2" fill="#FFFFFF"/><rect x="20" y="10" width="2" height="2" fill="#7FDBFF"/><rect x="22" y="10" width="2" height="2" fill="#FFFFFF"/><rect x="24" y="10" width="2" height="2" fill="#FFFFFF"/><rect x="26" y="10" width="2" height="2" fill="#FFFFFF"/><rect x="40" y="10" width="2" height="2" fill="#FFFFFF"/><rect x="42" y="10" width="2" height="2" fill="#FFFFFF"/><rect x="44" y="10" width="2" height="2" fill="#FFFFFF"/><rect x="46" y="10" width="2" height="2" fill="#BEE1FF"/><rect x="52" y="10" width="2" height="2" fill="#BEE1FF"/><rect x="54" y="10" width="2" height="2" fill="#BEE1FF"/><rect x="18" y="12" width="2" height="2" fill="#BEE1FF"/><rect x="20" y="12" width="2" height="2" fill="#BEE1FF"/><rect x="22" y="12" width="2" height="2" fill="#BEE1FF"/><rect x="24" y="12" width="2" height="2" fill="#BEE1FF"/><rect x="26" y="12" width="2" height="2" fill="#BEE1FF"/><rect x="28" y="12" width="2" height="2" fill="#FFFFFF"/><rect x="30" y="12" width="2" height="2" fill="#FFFFFF"/><rect x="36" y="12" width="2" height="2" fill="#FFFFFF"/><rect x="38" y="12" width="2" height="2" fill="#FFFFFF"/><rect x="40" y="12" width="2" height="2" fill="#BEE1FF"/><rect x="42" y="12" width="2" height="2" fill="#BEE1FF"/><rect x="44" y="12" width="2" height="2" fill="#BEE1FF"/><rect x="46" y="12" width="2" height="2" fill="#BEE1FF"/><rect x="48" y="12" width="2" height="2" fill="#BEE1FF"/><rect x="52" y="12" width="2" height="2" fill="#FFFFFF"/><rect x="8" y="14" width="2" height="2" fill="#BEE1FF"/><rect x="10" y="14" width="2" height="2" fill="#BEE1FF"/><rect x="12" y="14" width="2" height="2" fill="#BEE1FF"/><rect x="16" y="14" width="2" height="2" fill="#BEE1FF"/><rect x="18" y="14" width="2" height="2" fill="#BEE1FF"/><rect x="26" y="14" width="2" height="2" fill="#7FDBFF"/><rect x="28" y="14" width="2" height="2" fill="#BEE1FF"/><rect x="30" y="14" width="2" height="2" fill="#BEE1FF"/><rect x="32" y="14" width="2" height="2" fill="#FFFFFF"/><rect x="34" y="14" width="2" height="2" fill="#FFFFFF"/><rect x="36" y="14" width="2" height="2" fill="#BEE1FF"/><rect x="38" y="14" width="2" height="2" fill="#BEE1FF"/><rect x="40" y="14" width="2" height="2" fill="#7FDBFF"/><rect x="48" y="14" width="2" height="2" fill="#BEE1FF"/><rect x="50" y="14" width="2" height="2" fill="#BEE1FF"/><rect x="56" y="14" width="2" height="2" fill="#BEE1FF"/><rect x="62" y="14" width="2" height="2" fill="#BEE1FF"/><rect x="12" y="16" width="2" height="2" fill="#BEE1FF"/><rect x="14" y="16" width="2" height="2" fill="#BEE1FF"/><rect x="16" y="16" width="2" height="2" fill="#BEE1FF"/><rect x="24" y="16" width="2" height="2" fill="#7FDBFF"/><rect x="26" y="16" width="2" height="2" fill="#BEE1FF"/><rect x="28" y="16" width="2" height="2" fill="#BEE1FF"/><rect x="30" y="16" width="2" height="2" fill="#BEE1FF"/><rect x="32" y="16" width="2" height="2" fill="#BEE1FF"/><rect x="34" y="16" width="2" height="2" fill="#BEE1FF"/><rect x="36" y="16" width="2" height="2" fill="#BEE1FF"/><rect x="38" y="16" width="2" height="2" fill="#BEE1FF"/><rect x="40" y="16" width="2" height="2" fill="#BEE1FF"/><rect x="42" y="16" width="2" height="2" fill="#7FDBFF"/><rect x="50" y="16" width="2" height="2" fill="#BEE1FF"/><rect x="52" y="16" width="2" height="2" fill="#BEE1FF"/><rect x="8" y="18" width="2" height="2" fill="#BEE1FF"/><rect x="12" y="18" width="2" height="2" fill="#FFFFFF"/><rect x="14" y="18" width="2" height="2" fill="#BEE1FF"/><rect x="22" y="18" width="2" height="2" fill="#BEE1FF"/><rect x="24" y="18" width="2" height="2" fill="#BEE1FF"/><rect x="30" y="18" width="2" height="2" fill="#BEE1FF"/><rect x="32" y="18" width="2" height="2" fill="#BEE1FF"/><rect x="34" y="18" width="2" height="2" fill="#BEE1FF"/><rect x="36" y="18" width="2" height="2" fill="#BEE1FF"/><rect x="42" y="18" width="2" height="2" fill="#BEE1FF"/><rect x="44" y="18" width="2" height="2" fill="#BEE1FF"/><rect x="48" y="18" width="2" height="2" fill="#BEE1FF"/><rect x="52" y="18" width="2" height="2" fill="#BEE1FF"/><rect x="54" y="18" width="2" height="2" fill="#FFFFFF"/><rect x="12" y="20" width="2" height="2" fill="#BEE1FF"/><rect x="20" y="20" width="2" height="2" fill="#BEE1FF"/><rect x="22" y="20" width="2" height="2" fill="#BEE1FF"/><rect x="34" y="20" width="2" height="2" fill="#BEE1FF"/><rect x="36" y="20" width="2" height="2" fill="#BEE1FF"/><rect x="44" y="20" width="2" height="2" fill="#BEE1FF"/><rect x="46" y="20" width="2" height="2" fill="#BEE1FF"/><rect x="54" y="20" width="2" height="2" fill="#BEE1FF"/><rect x="8" y="22" width="2" height="2" fill="#FFFFFF"/><rect x="20" y="22" width="2" height="2" fill="#BEE1FF"/><rect x="34" y="22" width="2" height="2" fill="#FFFFFF"/><rect x="36" y="22" width="2" height="2" fill="#BEE1FF"/><rect x="46" y="22" width="2" height="2" fill="#BEE1FF"/><rect x="58" y="22" width="2" height="2" fill="#FFFFFF"/><rect x="6" y="24" width="2" height="2" fill="#FFFFFF"/><rect x="8" y="24" width="2" height="2" fill="#BEE1FF"/><rect x="34" y="24" width="2" height="2" fill="#FFFFFF"/><rect x="36" y="24" width="2" height="2" fill="#BEE1FF"/><rect x="58" y="24" width="2" height="2" fill="#BEE1FF"/><rect x="60" y="24" width="2" height="2" fill="#FFFFFF"/><rect x="6" y="26" width="2" height="2" fill="#BEE1FF"/><rect x="34" y="26" width="2" height="2" fill="#FFFFFF"/><rect x="36" y="26" width="2" height="2" fill="#BEE1FF"/><rect x="48" y="26" width="2" height="2" fill="#BEE1FF"/><rect x="60" y="26" width="2" height="2" fill="#BEE1FF"/><rect x="20" y="28" width="2" height="2" fill="#BEE1FF"/><rect x="34" y="28" width="2" height="2" fill="#FFFFFF"/><rect x="36" y="28" width="2" height="2" fill="#BEE1FF"/><rect x="48" y="28" width="2" height="2" fill="#7FDBFF"/><rect x="20" y="30" width="2" height="2" fill="#7FDBFF"/><rect x="34" y="30" width="2" height="2" fill="#BEE1FF"/><rect x="36" y="30" width="2" height="2" fill="#BEE1FF"/><rect x="14" y="32" width="2" height="2" fill="#BEE1FF"/><rect x="34" y="32" width="2" height="2" fill="#FFFFFF"/><rect x="36" y="32" width="2" height="2" fill="#7FDBFF"/><rect x="10" y="34" width="2" height="2" fill="#BEE1FF"/><rect x="14" y="34" width="2" height="2" fill="#7FDBFF"/><rect x="30" y="34" width="2" height="2" fill="#BEE1FF"/><rect x="34" y="34" width="2" height="2" fill="#FFFFFF"/><rect x="36" y="34" width="2" height="2" fill="#BEE1FF"/><rect x="10" y="36" width="2" height="2" fill="#7FDBFF"/><rect x="30" y="36" width="2" height="2" fill="#7FDBFF"/><rect x="34" y="36" width="2" height="2" fill="#BEE1FF"/><rect x="36" y="36" width="2" height="2" fill="#BEE1FF"/><rect x="56" y="36" width="2" height="2" fill="#BEE1FF"/><rect x="10" y="38" width="2" height="2" fill="#BEE1FF"/><rect x="34" y="38" width="2" height="2" fill="#FFFFFF"/><rect x="36" y="38" width="2" height="2" fill="#BEE1FF"/><rect x="40" y="38" width="2" height="2" fill="#BEE1FF"/><rect x="56" y="38" width="2" height="2" fill="#7FDBFF"/><rect x="10" y="40" width="2" height="2" fill="#7FDBFF"/><rect x="34" y="40" width="2" height="2" fill="#BEE1FF"/><rect x="36" y="40" width="2" height="2" fill="#BEE1FF"/><rect x="40" y="40" width="2" height="2" fill="#7FDBFF"/><rect x="32" y="42" width="2" height="2" fill="#FFFFFF"/><rect x="36" y="42" width="2" height="2" fill="#BEE1FF"/><rect x="32" y="44" width="2" height="2" fill="#FFFFFF"/><rect x="34" y="44" width="2" height="2" fill="#BEE1FF"/><rect x="32" y="46" width="2" height="2" fill="#BEE1FF"/><rect x="34" y="46" width="2" height="2" fill="#BEE1FF"/><rect x="32" y="48" width="2" height="2" fill="#FFFFFF"/><rect x="34" y="48" width="2" height="2" fill="#BEE1FF"/><rect x="32" y="50" width="2" height="2" fill="#FFFFFF"/><rect x="34" y="50" width="2" height="2" fill="#BEE1FF"/><rect x="32" y="52" width="2" height="2" fill="#FFFFFF"/><rect x="34" y="52" width="2" height="2" fill="#BEE1FF"/><rect x="32" y="54" width="2" height="2" fill="#FFFFFF"/><rect x="34" y="54" width="2" height="2" fill="#BEE1FF"/></g></g>
     <g id="dw-sdrop1" class="dw-only dw-on-splash"><rect x="16" y="30" width="2" height="4" fill="#7FDBFF"/><rect x="16" y="30" width="2" height="2" fill="#BEE1FF"/></g><g id="dw-sdrop2" class="dw-only dw-on-splash"><rect x="52" y="26" width="2" height="4" fill="#BEE1FF"/></g><g id="dw-sdrop3" class="dw-only dw-on-splash"><rect x="22" y="14" width="2" height="4" fill="#BEE1FF"/></g><g id="dw-sdrop4" class="dw-only dw-on-splash"><rect x="46" y="12" width="2" height="4" fill="#FFFFFF"/></g><g id="dw-sdrop5" class="dw-only dw-on-splash"><rect x="10" y="36" width="2" height="2" fill="#7FDBFF"/></g><g id="dw-sdrop6" class="dw-only dw-on-splash"><rect x="56" y="36" width="2" height="2" fill="#BEE1FF"/></g>
     <g id="dw-note-a" class="dw-only dw-on-music"><g id="dw-note1"><rect x="10" y="22" width="2" height="12" fill="#9D7BFF"/><rect x="4" y="30" width="6" height="2" fill="#9D7BFF"/><rect x="4" y="32" width="4" height="2" fill="#9D7BFF"/><rect x="12" y="24" width="4" height="2" fill="#9D7BFF"/><rect x="14" y="26" width="2" height="2" fill="#9D7BFF"/></g><g id="dw-note2"><rect x="52" y="26" width="2" height="12" fill="#FF8FB8"/><rect x="46" y="34" width="6" height="2" fill="#FF8FB8"/><rect x="46" y="36" width="4" height="2" fill="#FF8FB8"/><rect x="54" y="28" width="4" height="2" fill="#FF8FB8"/><rect x="56" y="30" width="2" height="2" fill="#FF8FB8"/></g><g id="dw-note3"><rect x="66" y="12" width="2" height="12" fill="#9D7BFF"/><rect x="60" y="20" width="6" height="2" fill="#9D7BFF"/><rect x="60" y="22" width="4" height="2" fill="#9D7BFF"/><rect x="68" y="14" width="4" height="2" fill="#9D7BFF"/><rect x="70" y="16" width="2" height="2" fill="#9D7BFF"/></g></g>
     <g id="dw-heart1" class="dw-only dw-on-poke"><rect x="46" y="24" width="4" height="2" fill="#FF8FB8"/><rect x="52" y="24" width="4" height="2" fill="#FF8FB8"/><rect x="44" y="26" width="6" height="2" fill="#FF8FB8"/><rect x="52" y="26" width="6" height="2" fill="#FF8FB8"/><rect x="44" y="28" width="14" height="2" fill="#FF8FB8"/><rect x="46" y="30" width="10" height="2" fill="#FF8FB8"/><rect x="48" y="32" width="6" height="2" fill="#FF8FB8"/><rect x="50" y="34" width="2" height="2" fill="#FF8FB8"/></g><g id="dw-heart2" class="dw-only dw-on-poke"><rect x="16" y="34" width="4" height="2" fill="#FF8FB8"/><rect x="22" y="34" width="4" height="2" fill="#FF8FB8"/><rect x="14" y="36" width="6" height="2" fill="#FF8FB8"/><rect x="22" y="36" width="6" height="2" fill="#FF8FB8"/><rect x="14" y="38" width="14" height="2" fill="#FF8FB8"/><rect x="16" y="40" width="10" height="2" fill="#FF8FB8"/><rect x="18" y="42" width="6" height="2" fill="#FF8FB8"/><rect x="20" y="44" width="2" height="2" fill="#FF8FB8"/></g><g id="dw-heart3" class="dw-only dw-on-poke"><rect x="62" y="14" width="4" height="2" fill="#FF4D5E"/><rect x="68" y="14" width="4" height="2" fill="#FF4D5E"/><rect x="60" y="16" width="6" height="2" fill="#FF4D5E"/><rect x="68" y="16" width="6" height="2" fill="#FF4D5E"/><rect x="60" y="18" width="14" height="2" fill="#FF4D5E"/><rect x="62" y="20" width="10" height="2" fill="#FF4D5E"/><rect x="64" y="22" width="6" height="2" fill="#FF4D5E"/><rect x="66" y="24" width="2" height="2" fill="#FF4D5E"/></g>
